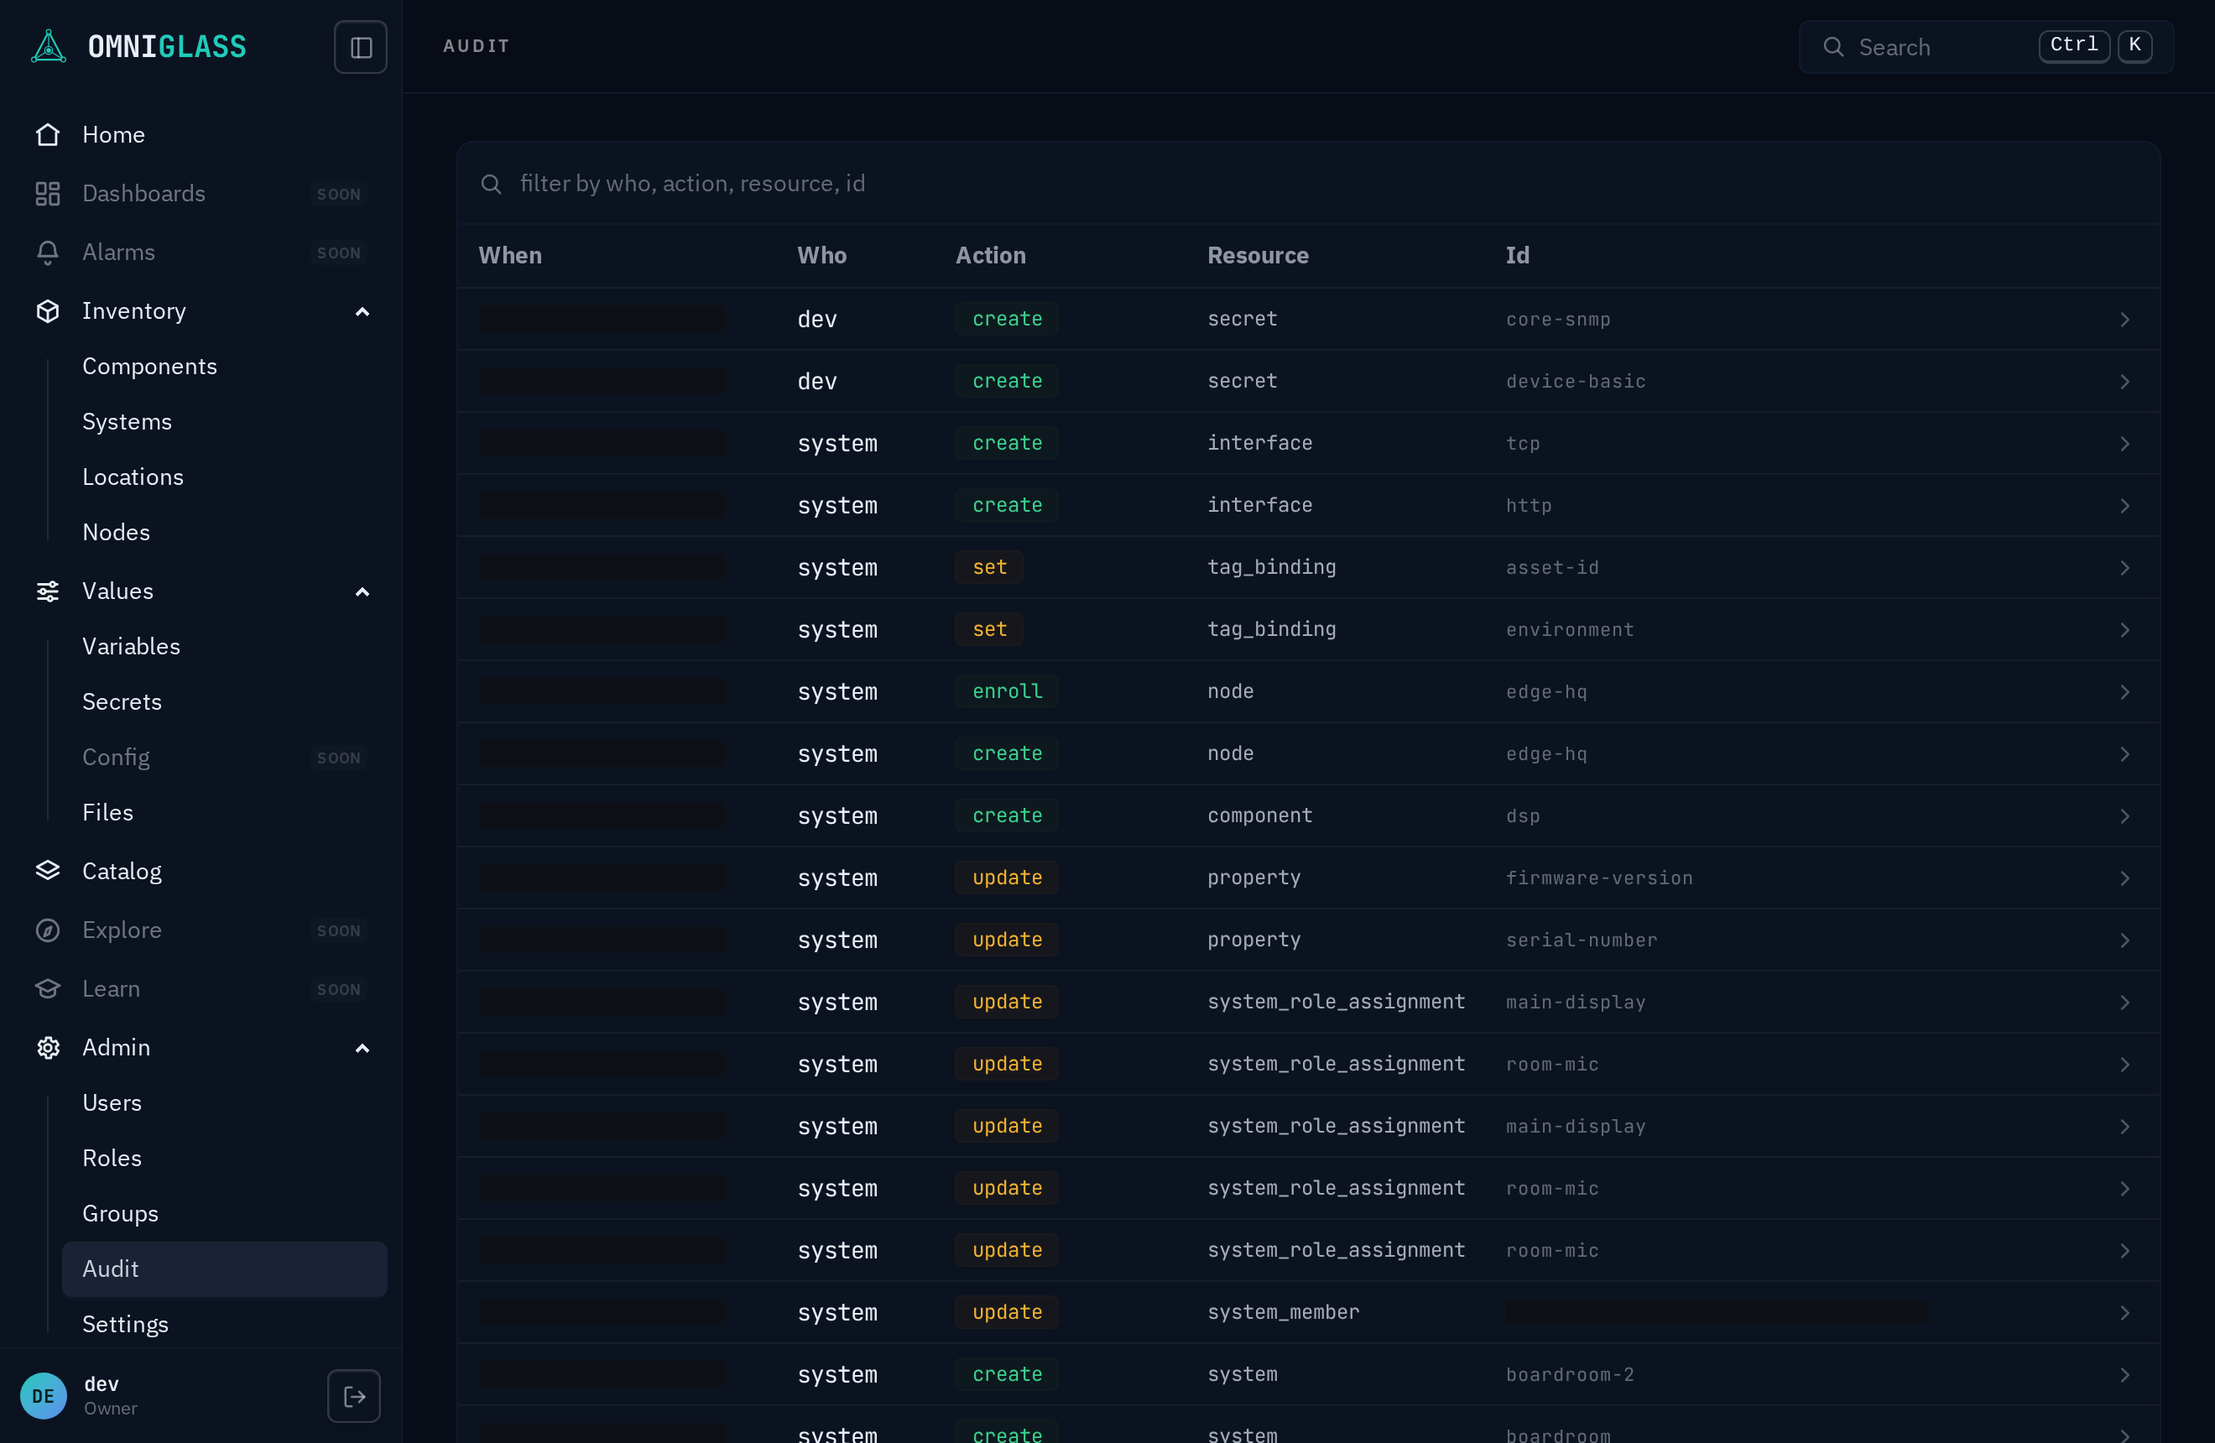
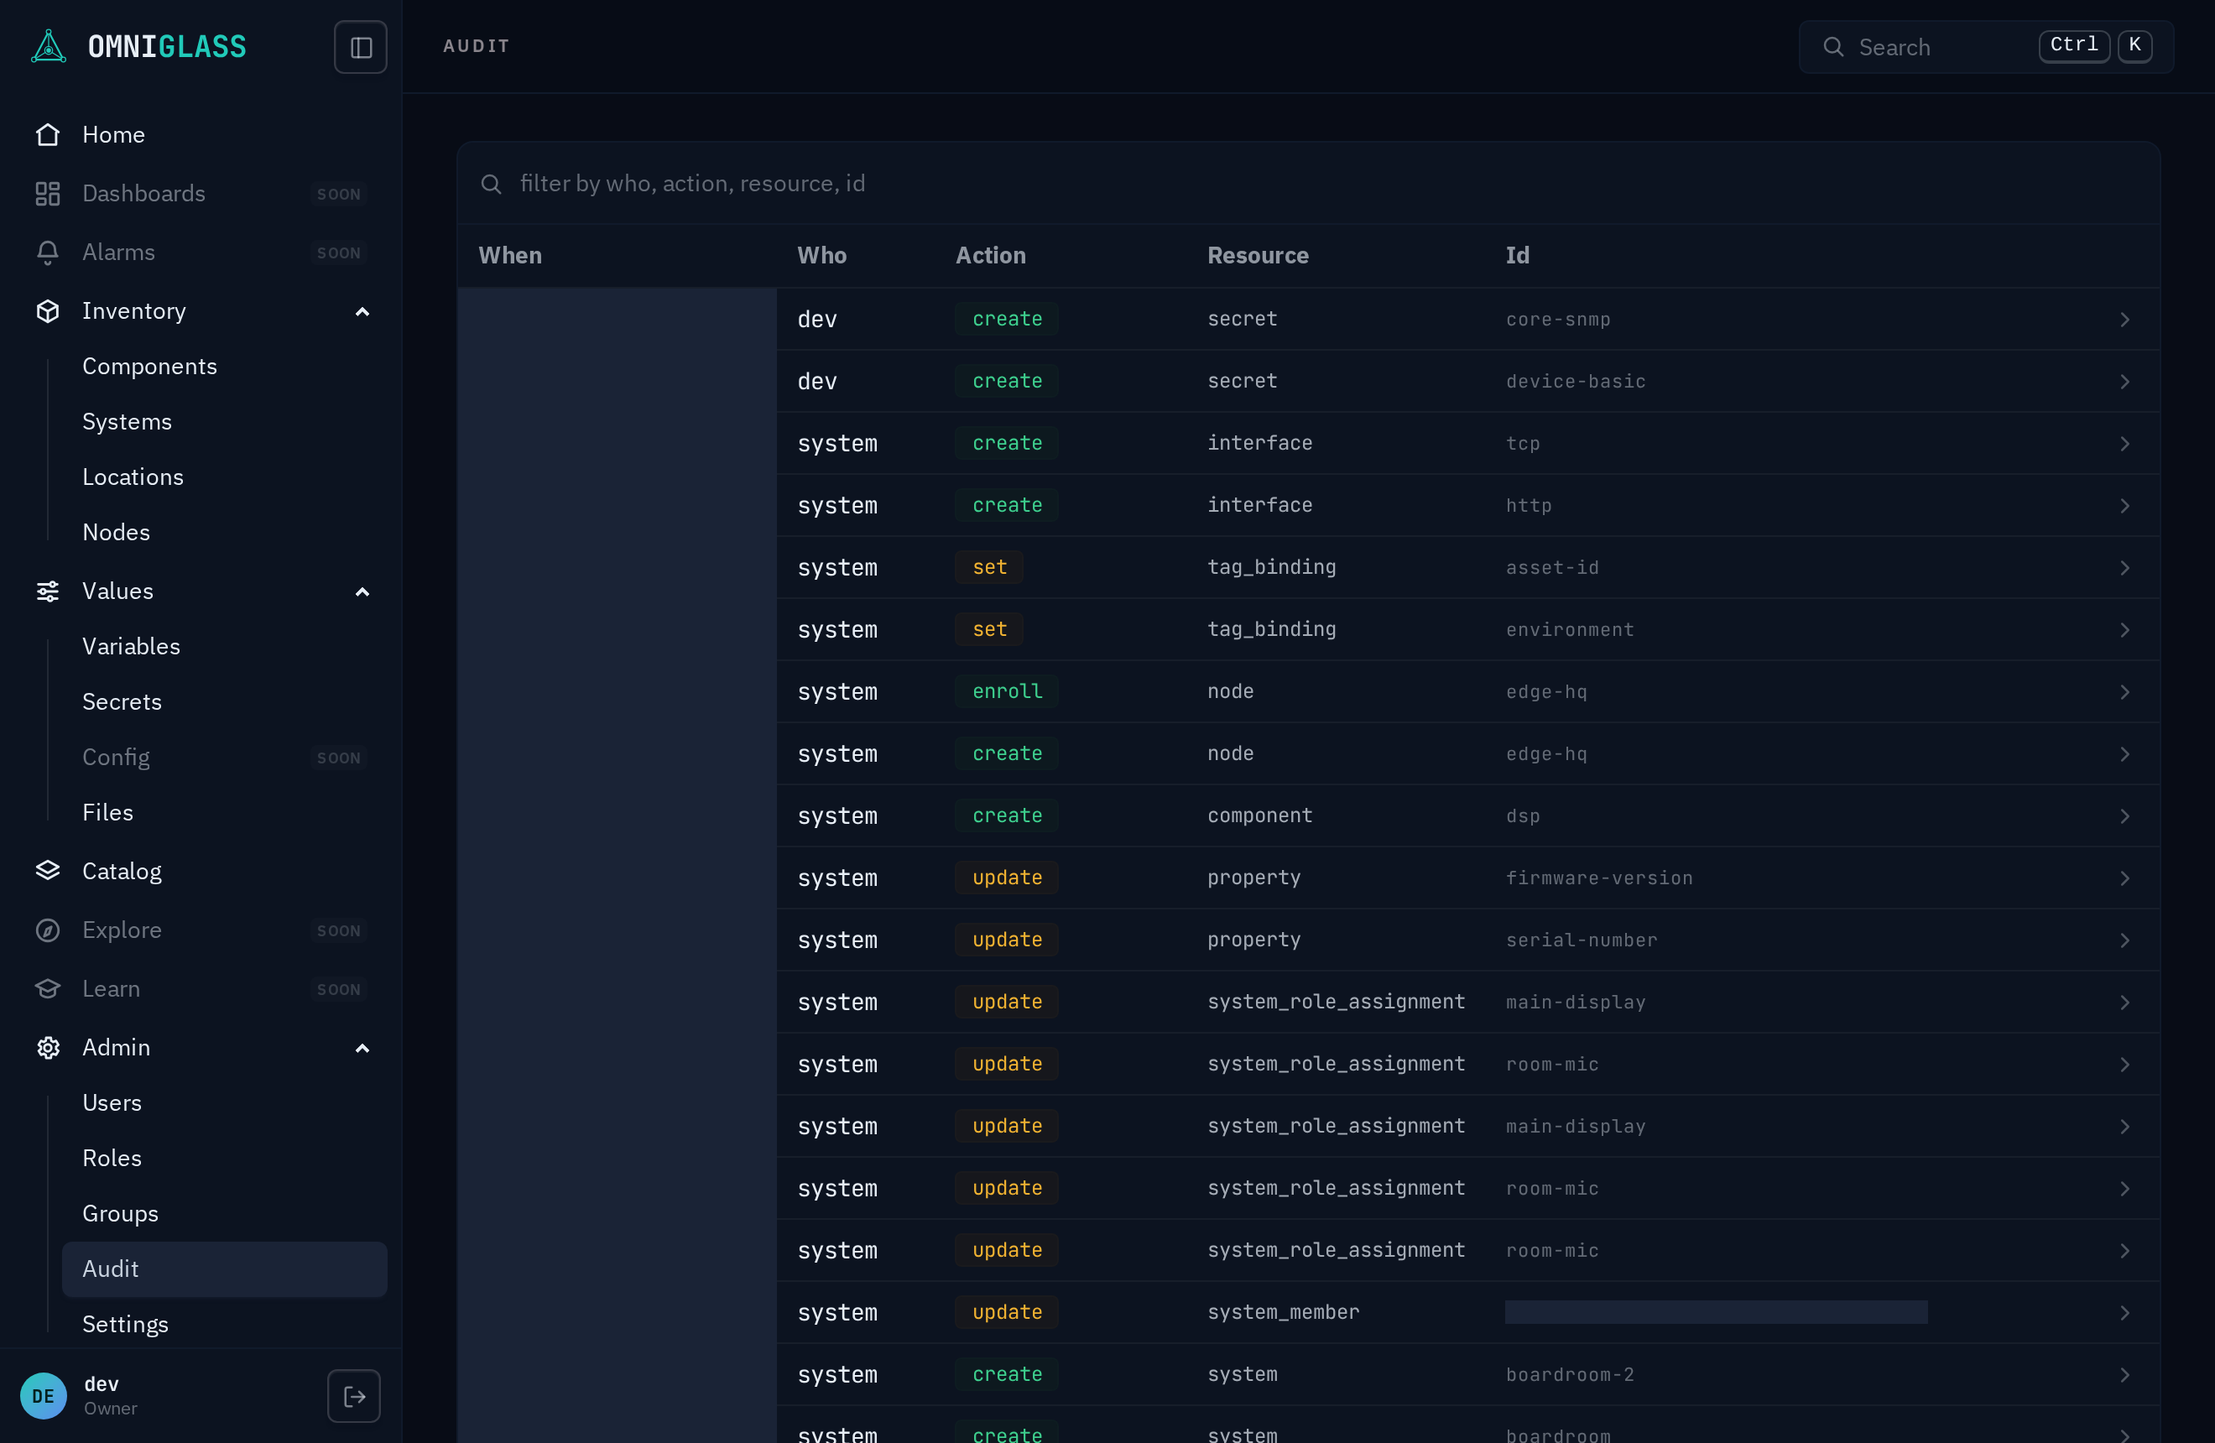
fix: a screenshot mask covers its cell, not its text (#773) (#776)
Playwright paints a mask over the element the selector resolves to, and its
text engine resolves to the innermost span, so both timestamp masks were sized
to the value they hide. The audit trail's hour is not zero-padded, so the box
is 7px narrower before ten o'clock: 8,400 changed pixels of pure clock jitter
against a budget of zero, on a PR that changed no UI.

The two timestamp masks now name their cell, whose width its column descriptor
pins (190px audit, 170 files). The fixed-width uuid masks stay on the text, one
of them because its enclosing cell is the file name the shot exists to show.
The fill becomes a deliberate neutral panel rather than a near-miss of the card
behind it, and each capture logs what its masks resolved to, so a mask that
lands on the wrong element shows up in the capture output.

DOCS_SHOTS_TZ moves the capture browser's clock, which is how this is proven:
all ten shots recapture byte-identical under a two-digit hour, where the
pre-fix masks moved by 7px. web/e2e/shotmask.spec.ts pins both halves at the
browser tier, including the single-digit day a timezone shift cannot reach.

Measured and filed rather than folded in: the gate's per-pixel perceptual
threshold hides dark-on-dark change (#774), and a capture can render a shot in
fallback fonts (#775).

Changed region(s): [[0.2174, 0.1849, 0.3417, 1.0], [0.6833, 0.8936, 0.8697, 0.9244]]

diff --git a/web/e2e/shotmask.spec.ts b/web/e2e/shotmask.spec.ts
@@ -1,0 +1,115 @@
+import { test, expect } from "@playwright/test";
+
+// The mask-geometry contract behind the docs screenshot gate (#773).
+//
+// docs-shots.mjs turns each `mask` frontmatter entry into page.locator(sel), and
+// Playwright paints the mask from the RESOLVED element's bounding box. Playwright's
+// text engine pushes an element only when no descendant matches, so a bare
+// `text=/…/` resolves to the innermost <span> holding the value and the painted box
+// is the size of that value. The console does not zero-pad every field it renders
+// (Audit.tsx's `d.toLocaleString()` leaves the hour bare, format.ts's fmtTime leaves
+// the day bare), so the same unchanged UI paints a narrower box at 9 PM than at
+// 11 PM, and on the 9th than on the 15th. A moved box is changed pixels, which
+// fails the freshness gate on a PR that changed no UI.
+//
+// Masking the containing CELL, whose width its column descriptor pins, makes the
+// box independent of the text it hides. These tests run against synthetic markup so
+// they can flip a digit on demand: the shots' own proof is a clock-shifted
+// recapture (DOCS_SHOTS_TZ), which cannot reach a single-digit day on most days of
+// the month. No server needed, so this spec runs wherever Playwright does.
+//
+// The comparison here is BYTE equality rather than the gate's own compareShot:
+// compareShot runs pixelmatch at threshold 0.1, which cannot see a mask edge move
+// over a dark surface at all (#774). Byte equality is the property a mask actually
+// owes the gate, and it is the one the clock-shifted capture demonstrates.
+
+// A cut-down copy of the row markup the two shots mask: the column width pinned the
+// way the real pages pin theirs (Audit.tsx's `when` column declares "190px",
+// Files.tsx's `created_at` declares 170) and the value in its own <span>, which is
+// the nesting the selector has to see through. The layout is fixed and the type is
+// small so the value fits its cell with room to spare on any font stack, as it does
+// in the console; a value that outgrew its cell would reflow the row and is a
+// different bug from this one.
+const rowMarkup = (value: string, cellWidth: number) => `
+<style>
+  body { margin: 0; background: #0c1320; color: #cbd5e1; font: 11px/1.5 monospace; }
+  table { width: 720px; table-layout: fixed; border-collapse: collapse; }
+  th, td { padding: 8px 12px; text-align: left; overflow: hidden; }
+</style>
+<table>
+  <colgroup><col style="width: ${cellWidth}px" /><col /><col style="width: 150px" /></colgroup>
+  <thead><tr><th>When</th><th>Who</th><th>Action</th></tr></thead>
+  <tbody>
+    <tr>
+      <td><span style="white-space: nowrap; font-variant-numeric: tabular-nums">${value}</span></td>
+      <td>dev</td>
+      <td>create</td>
+    </tr>
+  </tbody>
+</table>`;
+
+// The two masked shots, each with the regex its page declares, and a pair of values
+// that differ by exactly one character: the jitter a clock rollover produces.
+const cases = [
+  {
+    name: "audit's When column (an hour that is not zero-padded)",
+    selector: "text=/\\d+\\/\\d+\\/\\d{4}/",
+    cellWidth: 190,
+    narrow: "8/15/2026, 9:47:03 PM",
+    wide: "8/15/2026, 11:47:03 PM",
+  },
+  {
+    name: "files' Added column (a day that is not zero-padded)",
+    selector: "text=/[A-Z][a-z]{2} \\d{1,2}, \\d{2}:\\d{2} (AM|PM)/",
+    cellWidth: 170,
+    narrow: "Aug 9, 09:47 PM",
+    wide: "Aug 15, 09:47 PM",
+  },
+];
+
+const cellOf = (selector: string) => `${selector} >> xpath=ancestor::td[1]`;
+
+test.describe("docs screenshot masks", () => {
+  for (const c of cases) {
+    test(`resolves to the cell, not the text: ${c.name}`, async ({ page }) => {
+      await page.setContent(rowMarkup(c.wide, c.cellWidth));
+
+      const text = page.locator(c.selector);
+      const cell = page.locator(cellOf(c.selector));
+      expect(await text.evaluate((el) => el.tagName)).toBe("SPAN");
+      expect(await cell.evaluate((el) => el.tagName)).toBe("TD");
+
+      // The cell is the column's declared width whatever the value reads, and the
+      // value fits inside it, which is why masking the cell neither reflows the row
+      // nor tracks the text.
+      const textBox = await text.boundingBox();
+      const cellBox = await cell.boundingBox();
+      expect(Math.round(cellBox!.width)).toBe(c.cellWidth);
+      expect(textBox!.width).toBeLessThan(cellBox!.width - 24);
+    });
+
+    const shootWith = (mask: string) => async (page: import("@playwright/test").Page, value: string) => {
+      await page.setContent(rowMarkup(value, c.cellWidth));
+      return page.screenshot({
+        animations: "disabled",
+        caret: "hide",
+        mask: [page.locator(mask)],
+        maskColor: "#1a2336",
+      });
+    };
+
+    test(`a cell mask survives a one-character change: ${c.name}`, async ({ page }) => {
+      const shoot = shootWith(cellOf(c.selector));
+      const narrow = await shoot(page, c.narrow);
+      const wide = await shoot(page, c.wide);
+      expect(narrow.equals(wide)).toBe(true);
+    });
+
+    test(`a text mask does not, which is the defect: ${c.name}`, async ({ page }) => {
+      const shoot = shootWith(c.selector);
+      const narrow = await shoot(page, c.narrow);
+      const wide = await shoot(page, c.wide);
+      expect(narrow.equals(wide)).toBe(false);
+    });
+  }
+});

diff --git a/docs/src/content/docs/contributing/docs-with-everything.md b/docs/src/content/docs/contributing/docs-with-everything.md
@@ -133,7 +133,45 @@ render deterministically (a v7-uuid id subtext, a seed-time timestamp) are maske
 page's `screenshots` frontmatter and painted as constant boxes, so the pinned browser's
 rasters are byte-stable and the tolerance is zero: the old percentage ceiling passed exactly
 the changes the gate exists to catch, a renamed label or a collapsed rail repainting fewer
-pixels than seed jitter (#398, #623).
+pixels than seed jitter (#398, #623). One caveat, tracked as #774: the comparison counts the
+pixels pixelmatch judges different at its default perceptual threshold, so a change confined to
+near-identical dark tones can still score zero. Where byte stability is the claim, compare the
+bytes.
+
+### A mask covers the cell, and says that it is there
+
+Playwright paints a mask over **the element the selector resolves to**, so what a `mask` entry
+resolves to is the whole contract. A `text=/…/` selector resolves to the innermost element
+carrying the text, the value's own `<span>`, so the painted box is the size of the value. The
+console does not zero-pad everything it renders (the audit trail's `toLocaleString` leaves the
+hour bare, `fmtTime` leaves the day bare), which means the same unchanged table paints a box
+seven pixels narrower at 9 o'clock than at 11, and the gate reads that as drift on a PR that
+changed no UI. So a mask over text whose width can change names the **cell**, by appending
+`>> xpath=ancestor::td[1]`, and the cell's width is pinned by its column descriptor. A mask
+over text of fixed width (a uuid in a monospace face) stays on the text, which is also the
+only correct answer when the enclosing cell holds something the shot exists to show (#773).
+
+The fill is **deliberately visible**: the console's own neutral surface, one step lighter than
+the card behind it. A masked cell reads as a block placed over a value rather than as a column
+that failed to render, and the page's `alt` says which cells are masked and why. Painting the
+background instead would publish an empty column with nothing to explain it, and would need a
+hardcoded copy of a theme token to stay invisible.
+
+Prove a mask holds by recapturing **with the clock moved**, never by capturing twice a few
+minutes apart: two captures in the same hour of the same day are structurally blind to exactly
+the jitter a mask exists to absorb.
+
+```bash
+make docs-shots-check                              # the gate
+DOCS_SHOTS_TZ=Asia/Kolkata make docs-shots-check   # the same gate, an hour digit away
+```
+
+Both halves of the contract (the selector resolves to the cell, and the raster survives a
+one-character change) are pinned at the browser tier by `web/e2e/shotmask.spec.ts`, which flips
+a digit on synthetic markup and so also covers the single-digit day a timezone shift cannot
+reach. Every capture logs what each mask resolved to (`mask 59x td 190x37 <- text=/…/`), so a
+mask that lands on the wrong element shows up in the capture output rather than in a raster
+nobody diffs by hand.
 
 ## Style
 

diff --git a/docs/src/content/docs/guides/admin/files.md b/docs/src/content/docs/guides/admin/files.md
@@ -4,13 +4,24 @@ description: "The Files directory under Values: upload, find, download, and dele
 screenshots:
   - id: files
     path: /web/files
-    alt: "The Files directory: a flat list of uploaded files with type, size, and a sensitive badge, plus a New file action."
+    alt: "The Files directory: a flat list of uploaded files with type, size, and a sensitive badge, plus a New file action. Each row's id and Added cell are flat panels because the seed-time values are masked at capture."
     # Mask each row's id subtext and the Added column: both regenerate every
     # seed (a v7 uuid embeds the seed time; Added IS the seed time), so masking
     # keeps the image byte-stable for the zero-tolerance gate (#398, #623).
+    #
+    # The Added mask names the CELL (`xpath=ancestor::td[1]`), not the text
+    # inside it, so the painted box is the 170px the column descriptor pins
+    # rather than the width of the value: `fmtTime` does not zero-pad the day,
+    # so the text is a character narrower on the 9th than on the 15th, and a
+    # mask sized to the text moves with it (#773).
+    #
+    # The id mask stays on the text. A uuid is a fixed 36 characters in a
+    # monospace face, so its box does not move, and its enclosing cell is the
+    # NAME cell (the id renders as a subtext under the file name), which a cell
+    # mask would blank out along with the name the shot exists to show.
     mask:
       - "text=/[0-9a-f]{8}-[0-9a-f]{4}-[0-9a-f]{4}/"
-      - "text=/[A-Z][a-z]{2} \\d{1,2}, \\d{2}:\\d{2} (AM|PM)/"
+      - "text=/[A-Z][a-z]{2} \\d{1,2}, \\d{2}:\\d{2} (AM|PM)/ >> xpath=ancestor::td[1]"
 ---
 
 **Files** (under Values) is where you keep the **opaque bytes** that go with an estate, a firmware

diff --git a/docs/src/content/docs/architecture/build-log.md b/docs/src/content/docs/architecture/build-log.md
@@ -5396,3 +5396,18 @@ capabilities ship, so an early slice can prove a seam without moving any page of
   seeder on entering edit and again on `reseed()`, so the pattern is uniform when the next
   registry grows a `:restore` leg. Behavior unchanged per blade, the existing suites the gate;
   the page-detail flavor of the same hand-rolled seeding is #769 (#748).
+
+- **A screenshot mask covers its cell, not its text.** Playwright paints a mask over the element
+  the selector resolves to, and its text engine resolves to the innermost span, so the masks the
+  zero-tolerance gate depends on were sized to the values they hide: the audit trail's un-padded
+  hour made the box seven pixels narrower before ten o'clock, 8,400 changed pixels of pure clock
+  jitter on a PR that changed no UI. The two timestamp masks now name their cell
+  (`>> xpath=ancestor::td[1]`, pinned at 190px and 170px by the column descriptors) while the
+  fixed-width uuid masks stay on the text, the fill becomes a deliberate neutral panel rather
+  than a near-miss of the background, and every capture logs what each mask resolved to.
+  `DOCS_SHOTS_TZ` moves the capture browser's clock, which is how the fix was proven: the ten
+  shots recapture **byte-identical** under a two-digit hour where the pre-fix masks did not, and
+  `web/e2e/shotmask.spec.ts` pins both halves at the browser tier, including the single-digit day
+  a timezone shift cannot reach. Two adjacent defects the work measured are filed rather than
+  folded in: the gate's per-pixel perceptual threshold (#774) and a capture that renders a shot
+  in fallback fonts (#775) (#773).

diff --git a/docs/src/content/docs/guides/admin/audit.md b/docs/src/content/docs/guides/admin/audit.md
@@ -4,11 +4,22 @@ description: "The read-only record of every privileged action and every sign-in,
 screenshots:
   - id: audit
     path: /web/audit
-    alt: "The audit trail: every privileged action and sign-in, newest first, with who, what, and the resource."
+    alt: "The audit trail: every privileged action and sign-in, newest first, with who, what, and the resource. Each When cell is a flat panel because the seed-time timestamps are masked at capture."
     # Mask the timestamp and id columns: both regenerate every seed (a v7 uuid
     # embeds the seed time), so masking keeps the image byte-stable for the gate.
+    #
+    # The When mask names the CELL (`xpath=ancestor::td[1]`), not the text inside
+    # it. Playwright paints a mask over whatever the selector resolves to, and a
+    # `text=` selector resolves to the innermost span, so a mask on the text is
+    # the size of the text: `toLocaleString` does not zero-pad the hour, so the
+    # box is 7px narrower before 10 o'clock and a clock rollover repaints it
+    # (#773). The cell is pinned at 190px by the column descriptor.
+    #
+    # The Id mask stays on the text: a uuid is a fixed 36 characters in a
+    # monospace face, so its box does not move, and the enclosing cell is the
+    # Id column, which no descriptor pins.
     mask:
-      - "text=/\\d+\\/\\d+\\/\\d{4}/"
+      - "text=/\\d+\\/\\d+\\/\\d{4}/ >> xpath=ancestor::td[1]"
       - "text=/[0-9a-f]{8}-[0-9a-f]{4}-[0-9a-f]{4}/"
 ---
 
